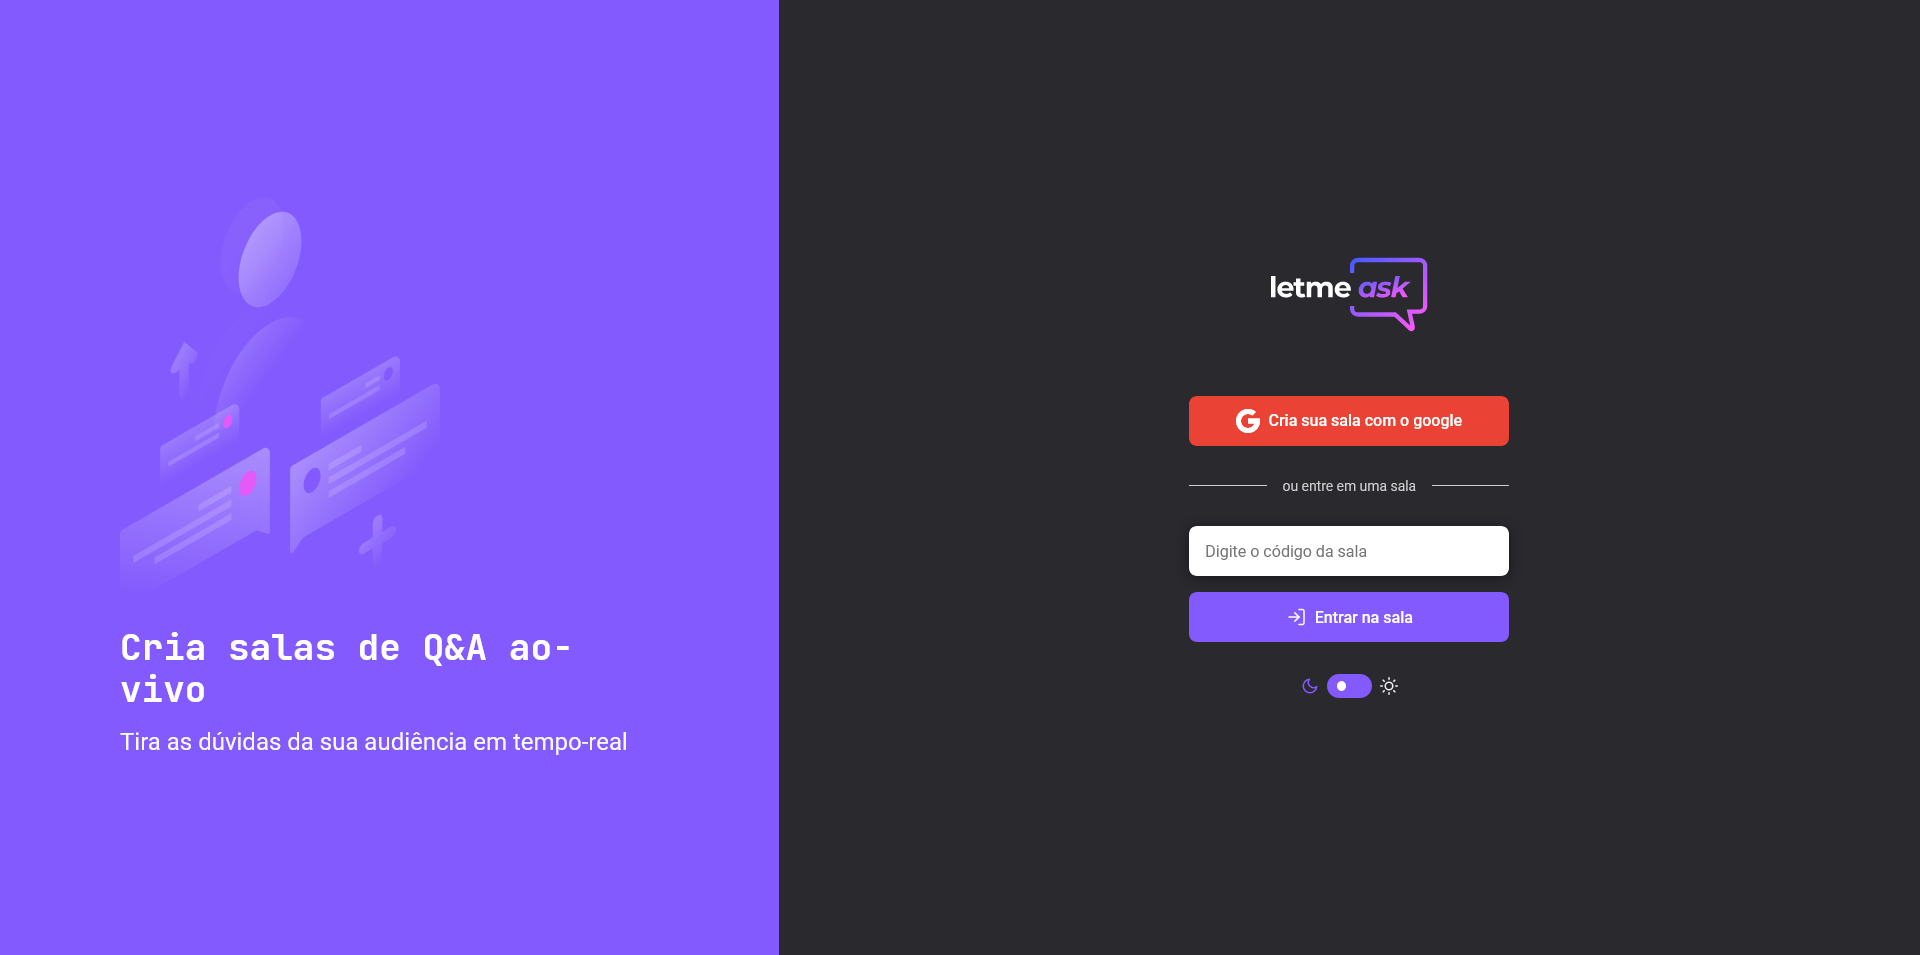
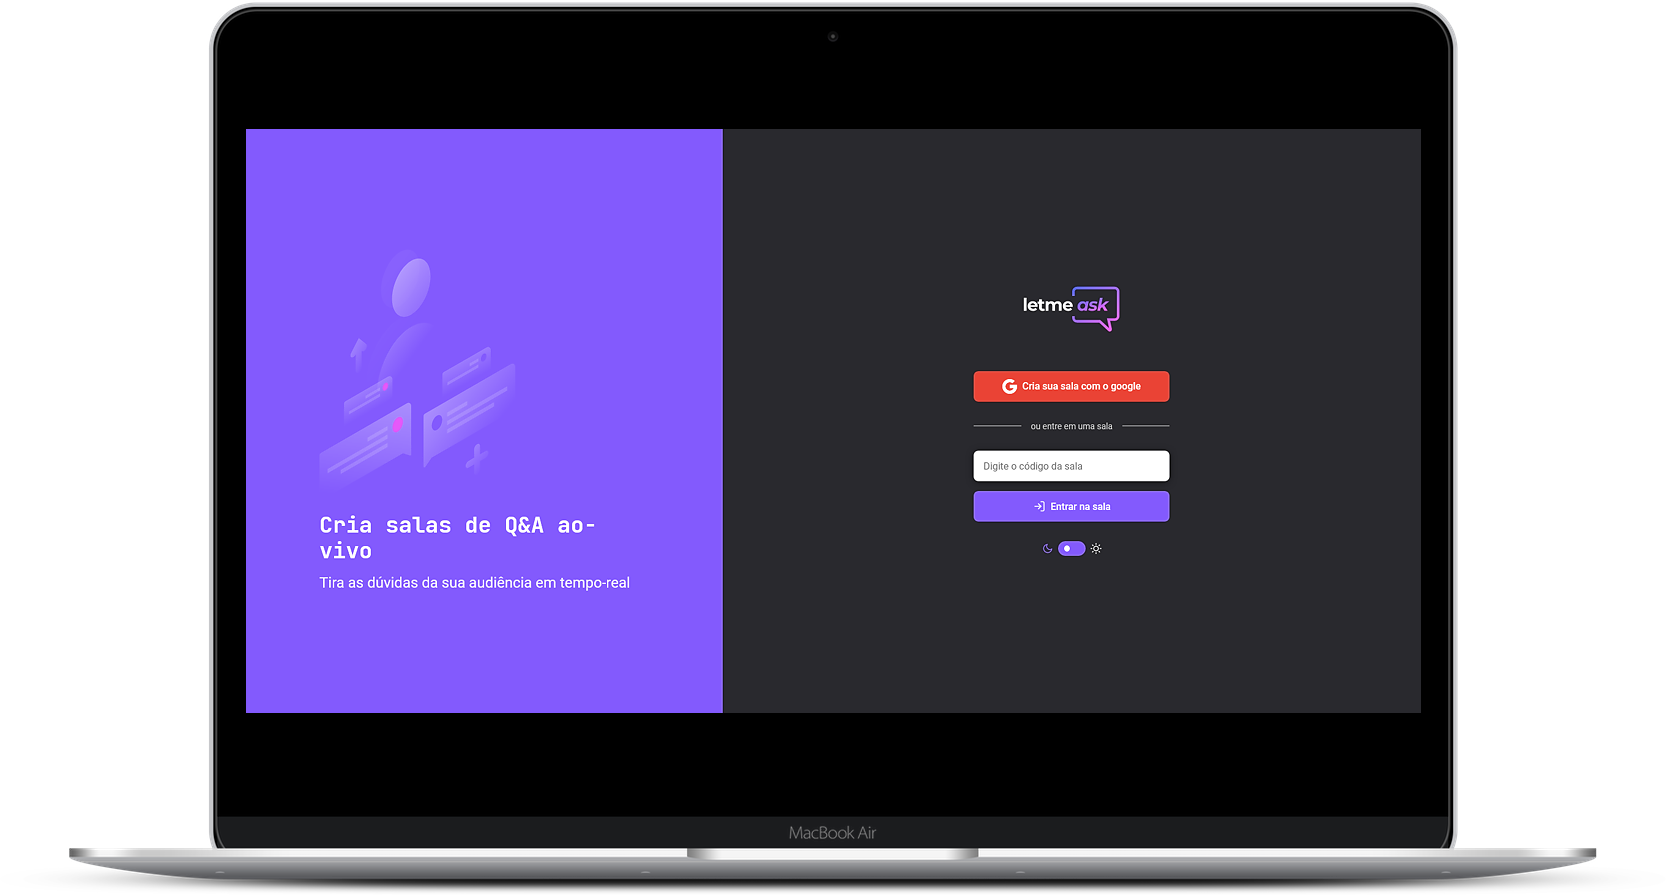
update

diff --git a/README.md b/README.md
@@ -4,13 +4,19 @@ Projeto desenvolvido durante a Next Level Week #6 da Rocketseat.
 
 <br>
 
-![Move.it](.github/letmeask.gif)
+![Letmeask](.github/letmeask.png)
 
 <br>
 
 ## 🟢 Experimente agora
 
 Disponível [aqui](https://letmeask-pearl.vercel.app/).
+
+<br>
+
+## 🎥 Video de demosntração
+
+![Letmeask](.github/letmeask.gif)
 
 <br>
 
